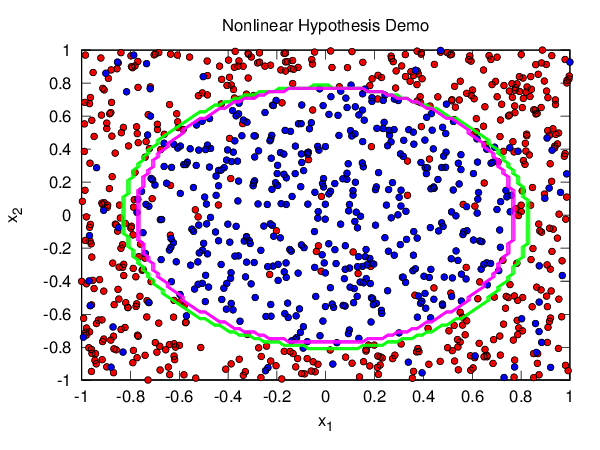
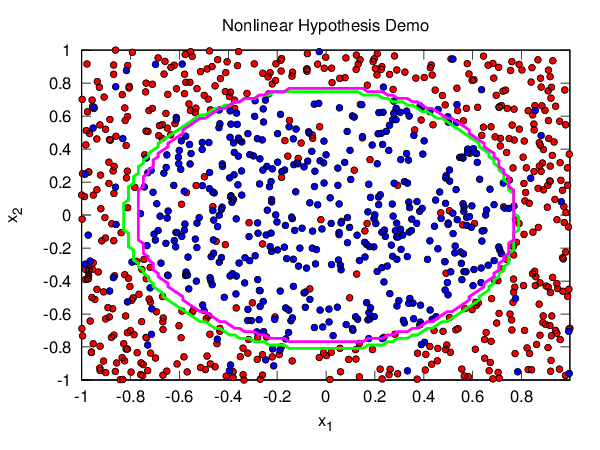
Updated contour to plot just one thick line.

Changed region(s): [[0.12, 0.0933, 0.96, 0.9022], [0.93, 0.8711, 0.96, 0.9022], [0.27, 0.8711, 0.3, 0.9022]]

diff --git a/week-02/src/plot_lr_nonlinear.m b/week-02/src/plot_lr_nonlinear.m
@@ -53,10 +53,10 @@ p = linspace (spc(1), spc(2), 100);
 
 % Hypothesis function
 hf = @ (x1, x2) sign (addfeatures ([1 x1 x2]) * w);
-contour (x1, x2, arrayfun (hf, x1, x2), "g-");
+contour (x1, x2, arrayfun (hf, x1, x2), 1, "g-", "linewidth", 5);
 
 % Target function
-contour (x1, x2, arrayfun (@target, x1, x2), "m-");
+contour (x1, x2, arrayfun (@target, x1, x2), 1, "m-", "linewidth", 5);
 
 legend ("hide");
 
